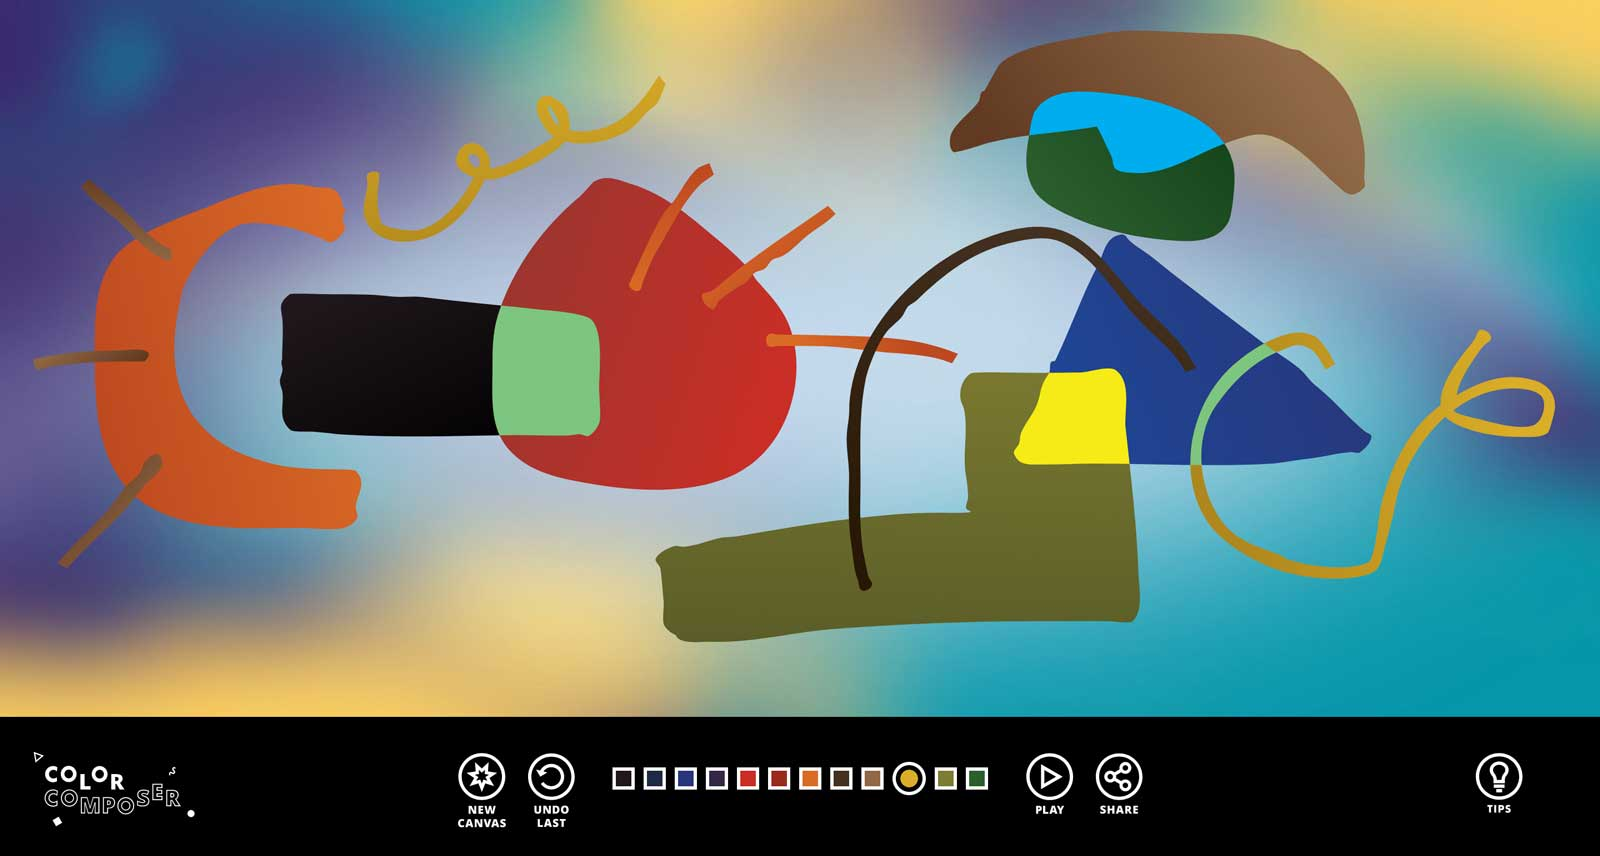
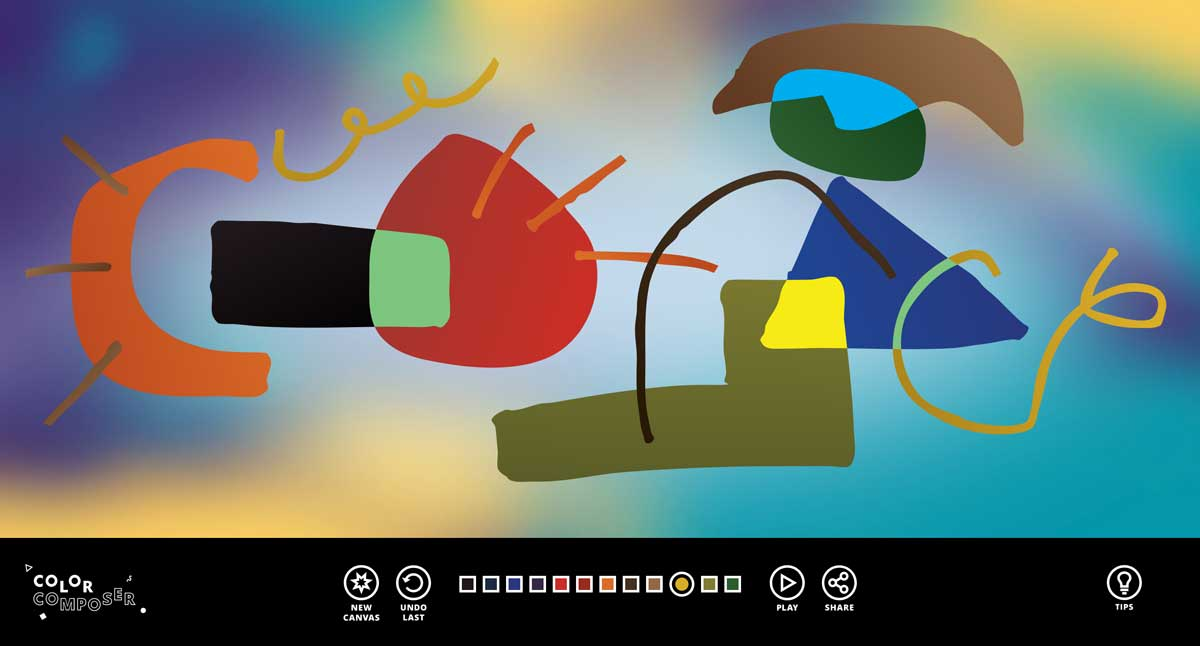
Zoom swap color-composer

diff --git a/src/pages/projects/professional/color-composer/index.md b/src/pages/projects/professional/color-composer/index.md
@@ -17,16 +17,24 @@ In June 2015, the <a href="https://nelson-atkins.org/" target="_blank">Nelson-At
 As a part of this renovation, the museum decided to include several interactive experiences that would teach about the works in the collection, as well as to integrate an innovative <a href="https://www.detour.com/" target="_blank">Detour</a> audio tour (the second of its kind, following SFMOMA). The interactives would be showcased on a handful of iPads spread throughout the space, tethered to viewing benches, as well as two 32" touchscreen tables with an individual experience on each. The Nelson-Atkins came to Moonshot, the innovation lab at <a href="https://www.barkleyus.com/" target="_blank">Barkley</a>, for help in designing and developing the experiences that would be showcased in the gallery alongside the artwork. We were honored to oblige.
 
 <div class="blog-inset">
-  <img src="/static.png" alt="Video Screenshot" title="Video Screenshot" data-action="zoom"/>
+  <hidden>
+    <img src='static.jpg' />
+    <img src='static-zoom.jpg' />
+  </hidden>
+  <zoom-image src='static.jpg' zoomSrc='static-zoom.jpg' alt='Video Screenshot'></zoom-image>
 </div>
 
-I had the privilege of developing Color Composer, an interactive experience inspired by the works of Wassily Kandinsky. The experience is showcased on a 32" touchscreen table and seeks to recreate the inextricable connection between sound and color experienced by Kandinsky, whoh was reportedly a <a href="https://en.wikipedia.org/wiki/Synesthesia" target="_blank">synesthete</a>. A user would step up to the table and be presented with a blank canvas and a color picker. Each shape added to the canvas would be recognized (circle, square, triangle, line, other), and in combination with its color and size would produce a sound. The user could, once they were content with their composition, press a button and hear it played in its entirety: an invisible stylus would scan across, left to right, playing each sound sequentially. The user could then adjust their composition by using two fingers to adjust the size or position of any shape. Then, the composition could be exported as a video file and a link to the unique composition could be texted to a user's phone.
+I had the privilege of developing Color Composer, an interactive experience inspired by the works of Wassily Kandinsky. The experience is showcased on a 32" touchscreen table and seeks to recreate the inextricable connection between sound and color experienced by Kandinsky, who was reportedly a <a href="https://en.wikipedia.org/wiki/Synesthesia" target="_blank">synesthete</a>. A user would step up to the table and be presented with a blank canvas and a color picker. Each shape added to the canvas would be recognized (circle, square, triangle, line, other), and in combination with its color and size would produce a sound. The user could, once they were content with their composition, press a button and hear it played in its entirety: an invisible stylus would scan across, left to right, playing each sound sequentially. The user could then adjust their composition by using two fingers to adjust the size or position of any shape. Then, the composition could be exported as a video file and a link to the unique composition could be texted to a user's phone.
 
 <div class="blog-inset">
-  <img src="/canvas.jpg" alt="Canvas" title="Canvas" data-action="zoom"/>
+  <hidden>
+    <img src='canvas.jpg' />
+    <img src='canvas-zoom.jpg' />
+  </hidden>
+  <zoom-image src='canvas.jpg' zoomSrc='canvas-zoom.jpg' alt='Canvas'></zoom-image>
 </div>
 
-This project was probably one of the most daunting ones I've ever faced. There were so many different pieces that needed to seemlessly blend together: multitouch interaction, editing the canvas, playing sounds, recording the canvas, putting in all the safeguards necessary for any sort of installation work (ignoring extraneous inputs, going to sleep, resetting work from previous users, logging errors, failing gracefully, autostarting, etc.), and more. On top of this, it was important to the museum that any installation available in gallery would also have a companion experience on the web, so that people who are unable to physically visit the gallery would still have the opportunity to experience the interactive. That meant building the experience for the browser (and making sure it plays well with a variety of browsers users could potentially use), which also increases the overhead significantly.
+This project was probably one of the most daunting ones I've ever faced. There were so many different pieces that needed to seamlessly blend together: multitouch interaction, editing the canvas, playing sounds, recording the canvas, putting in all the safeguards necessary for any sort of installation work (ignoring extraneous inputs, going to sleep, resetting work from previous users, logging errors, failing gracefully, autostarting, etc.), and more. On top of this, it was important to the museum that any installation available in gallery would also have a companion experience on the web, so that people who are unable to physically visit the gallery would still have the opportunity to experience the interactive. That meant building the experience for the browser (and making sure it plays well with a variety of browsers users could potentially use), which also increases the overhead significantly.
 
 For those curious, here are a few of the libraries I used:
   * <a href="http://paperjs.org/" target="_blank">paper.js</a> for drawing shapes
